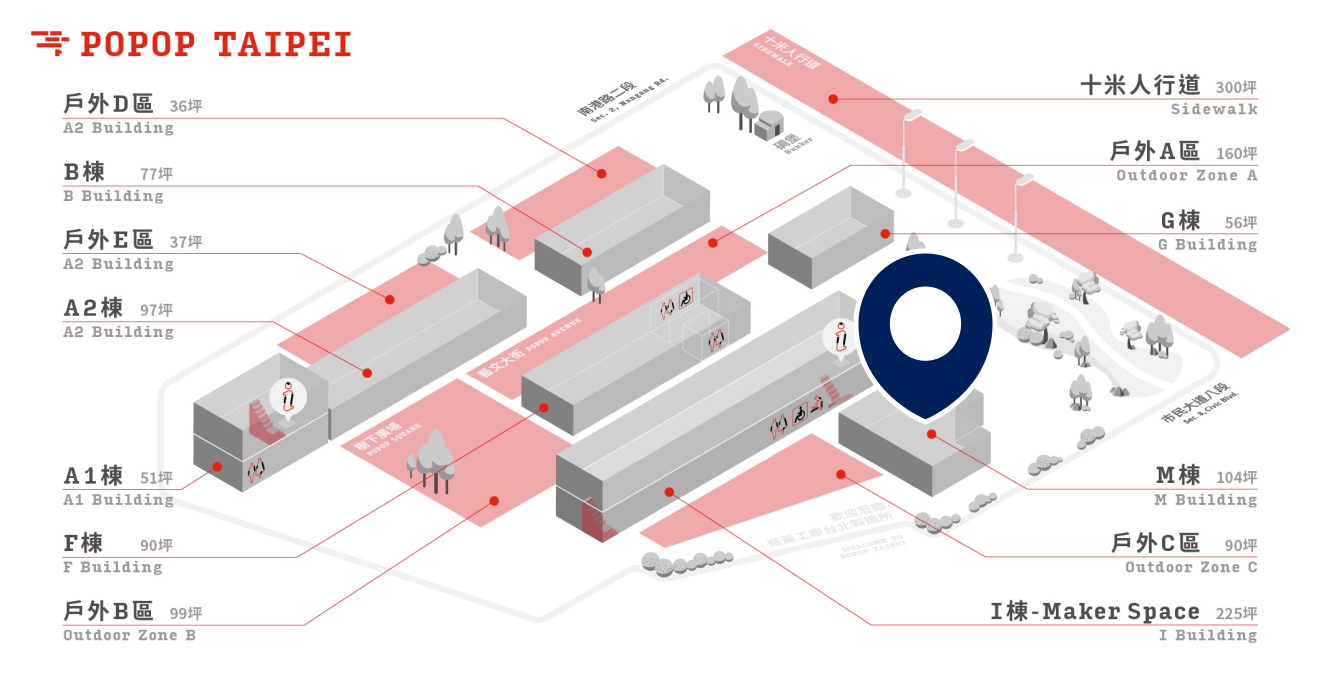
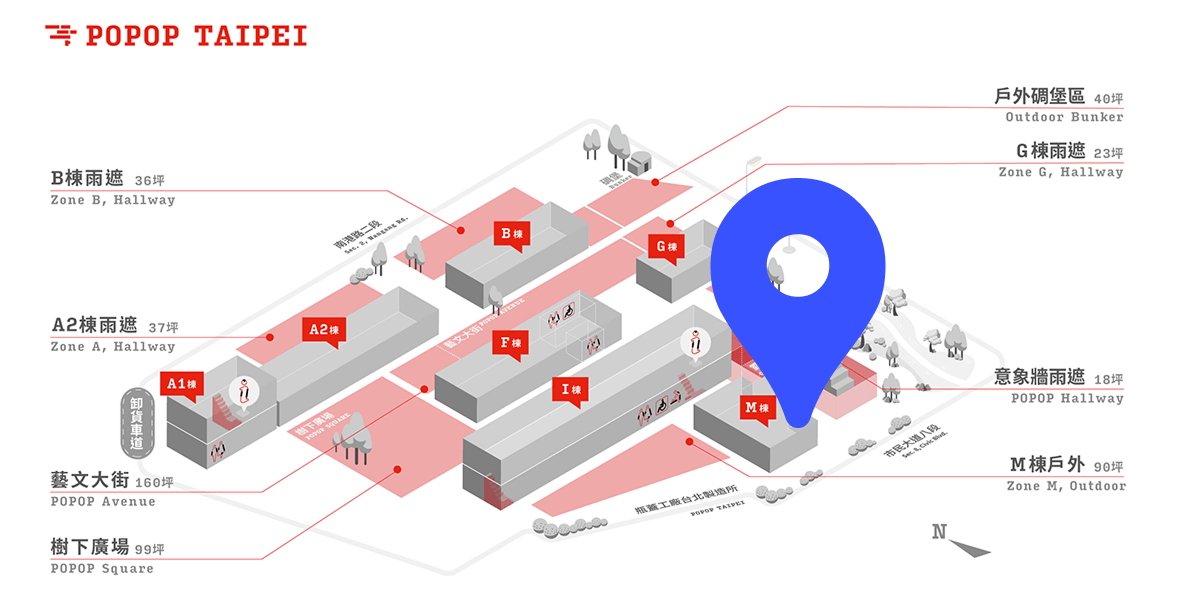
chore: buildings

diff --git a/components/AgendaPage/ConferenceTable.tsx b/components/AgendaPage/ConferenceTable.tsx
@@ -19,10 +19,10 @@ const ConferenceTable = ({ date }: ConferenceTableProps) => {
   const Column1Location = "M";
 
   const Column2Activity = "Conference";
-  const Column2Location = "F";
+  const Column2Location = "A2";
 
   const Column3Activity = "Workshop";
-  const Column3Location = "G";
+  const Column3Location = "I";
 
   return (
     <>
